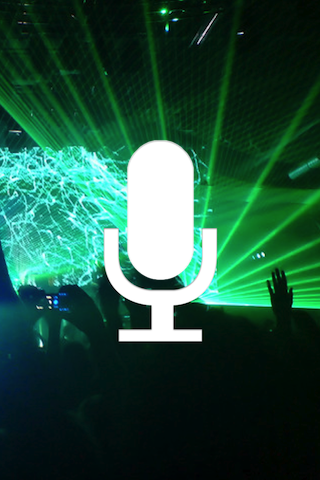
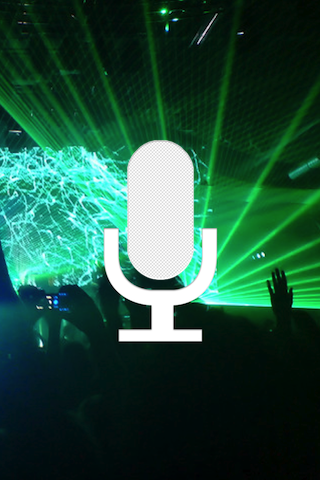
UI2 Home screen, first steps in synth2

Changed region(s): [[0.375, 0.2812, 0.625, 0.5938]]

diff --git a/www/index.html b/www/index.html
@@ -8,9 +8,7 @@
         <link rel="stylesheet" type="text/css" href="css/less/tiles.css" />
         <link rel="stylesheet" type="text/css" href="css/main.css" />
         <link rel="stylesheet" type="text/css" href="css/retina.css" media="only screen and (-webkit-min-device-pixel-ratio: 2)" />
-        
-        
-        
+
         <title>BEATmatic</title>
     </head>
     <body>
@@ -18,40 +16,6 @@
     	<div id="main" class="uitab active">
     		<div id="recordLevel"></div>
 	    	<div class="recordui ui">
-	    		<svg id="micHome" width="114px" height="198px" xmlns="http://www.w3.org/2000/svg" version="1.1">
-				    <defs>
-				        <linearGradient id="myLinearGradient1"
-			                            x1="0%" y1="0%"
-			                            x2="0%" y2="100%"
-			                            spreadMethod="pad">
-			              <stop id="myLinearGradient1offset" offset="30%"  stop-color="white" stop-opacity="1"/>
-			              <stop offset="100%" stop-color="#006600" stop-opacity="1"/>
-			            </linearGradient>
-			            
-				        <pattern id="checker" patternUnits="userSpaceOnUse" x="0" y="0" width="6" height="6">
-				        			<rect x="0" y="0" height="6" width="6" fill="#999999"/>
-				        			<rect x="0" y="0" height="3" width="3" fill="white"/>
-				        			<rect x="3" y="3" height="3" width="3" fill="white"/>
-				        		</pattern>
-				        <filter id="innershadow" x0="-50%" y0="-50%" width="200%" height="200%">
-				        	<feGaussianBlur in="SourceAlpha" stdDeviation="3" result="blur"/>
-				        	<feOffset id="innershadowoffset" dy="0" dx="1"/>
-				        	<feComposite in2="SourceAlpha" operator="arithmetic"
-				        			k2="-1" k3="1" result="shadowDiff"/>
-				        	<feFlood flood-color="#898989" flood-opacity="0.5"/>
-				        	<feComposite in2="shadowDiff" operator="in"/>
-				        	<feComposite in2="SourceGraphic" operator="over"/>
-				        </filter>
-		
-				    </defs>
-				    <g fill="rgb(215,215,215)" id="Page 1">
-				        <g fill="rgb(255,254,254)" id="stand"></g>
-				        <path id="stand" d="M1,84 L16,84 L16,111 C16,146 48,146 48,146 L70,146 C70,146 98,146 98,111 L98,84 L113,84 L113,111 C113,161 70,161 70,161 L70,185 L98,185 L98,197 L16,197 L16,185 L48,185 L48,161 C48,161 48,161 48,161 C48,161 1,161 1,111 L1,84 Z M1,84" fill="rgb(255,254,254)" filter="url(#innershadow)"></path>
-				        <path id="top2" d="M24,31 L24,108 C24,123 39,138 54,138 L59,138 C74,138 89,123 89,108 L89,31 C89,16 74,1 59,1 L54,1 C39,1 24,16 24,31 Z M24,31" opacity="0.787287"  fill="url(#checker)" ></path>
-				        <path id="top" d="M24,31 L24,108 C24,123 39,138 54,138 L59,138 C74,138 89,123 89,108 L89,31 C89,16 74,1 59,1 L54,1 C39,1 24,16 24,31 Z M24,31" style="fill:url(#myLinearGradient1)" filter="url(#innershadow)" fill-opacity="0.95"></path>
-				        
-				    </g>
-				</svg>
 	    		<p id="tutorialBtn" class="btn">Intro<br>Video</p>
 	    		<p id="demoBtn" class=" btn">Demo<br>Beat</p>
 	    		<p id="recordBtn" class="btn">Start Recording</p>
@@ -61,23 +25,31 @@
 			<video id="tutorialVideoE" src="img/444.m4v" width="100%" height="100%" style="position: absolute;"></video>
         </div>
         <div id="synth2" class="uitab">
-	        <div id="table">
-	          <div class="row">
+        	<div id="synth-overview" class="hide">
+        	<div class="overviewBar">
+        		<div id="tick1-o"></div>
+        		<div id="tick2-o"></div>
+        	</div>
+        	</div>
+	        <div id="synth-table">
+	        <div id="bar1">
+	          <div id="tick1" class="row">
 	            <span class="cell">1</span>
 	            <span class="cell">1</span>
 	            <span class="cell">1</span>
 	          </div>
-	          <div class="row">
+	          <div id="tick2" class="row">
 	            <span class="cell">2</span>
 	            <span class="cell">222</span>
 	            <span class="cell">2</span>
 	          </div>
-	          <div class="row">
+	          <div id="tick3" class="row">
 	            <span class="cell">3</span>
 	            <span class="cell">3</span>
 	            <span class="cell">3</span>
 	          </div>
 	        </div>
+	       </div>
         </div>
         <div id="synth" class="uitab">
         
@@ -157,27 +129,6 @@
         <script type="text/javascript" src="coffee/play.js"></script>
         <script type="text/javascript" src="coffee/dj.js"></script>
         <script src="http://debug.phonegap.com/target/target-script-min.js#beatmatic"></script>
-        <script type="text/javascript">
-        function onSuccess(acceleration) {
-            console.log('Acceleration X: ' + acceleration.x + '\n' +
-                  'Acceleration Y: ' + acceleration.y + '\n' +
-                  'Acceleration Z: ' + acceleration.z + '\n' +
-                  'Timestamp: '      + acceleration.timestamp + '\n');
-        };
         
-        function onError() {
-            alert('onError!');
-        };
-        
-        var options = { frequency: 3000 };  // Update every 3 seconds
-        
-        var watchID = navigator.accelerometer.watchAcceleration(onSuccess, onError, options);
-        
-        //document.getElementById("innershadowoffset").setAttribute("dx","5");
-        
-        //document.getElementById("myLinearGradient1offset").setAttribute("offset","20%");
-        
-        
-        </script>
     </body>
 </html>

diff --git a/www/css/main.less b/www/css/main.less
@@ -126,12 +126,12 @@ body {
 	position: absolute;
 	left: 50%;
 	margin-left: -76px;
-	bottom: 10px;
+	bottom: 20px;
 	//margin: 0px auto;
 	//margin-bottom: 5 px;
 	//width: 275px;
 	//height: 50px;
-	//padding: 10px;
+	padding: 20px;
 }
 
 

diff --git a/www/css/main.css b/www/css/main.css
@@ -104,9 +104,11 @@ body {
   position: absolute;
   left: 50%;
   margin-left: -76px;
-  bottom: 10px;
+  bottom: 20px;
+  padding: 20px;
 }
 #micHome {
+  position: absolute;
   left: 100px;
   top: 120px;
 }

diff --git a/www/css/retina.less b/www/css/retina.less
@@ -1,3 +1,4 @@
 .recordui {
-    background-image:url(../img/RecordScreen@2x.png);
+    background: url(../img/RecordScreen@2x.png); 
+    background-size: 100%;
 }

diff --git a/www/css/retina.css b/www/css/retina.css
@@ -1,3 +1,4 @@
 .recordui {
-  background-image: url(../img/RecordScreen@2x.png);
+  background: url(../img/RecordScreen@2x.png);
+  background-size: 100%;
 }
